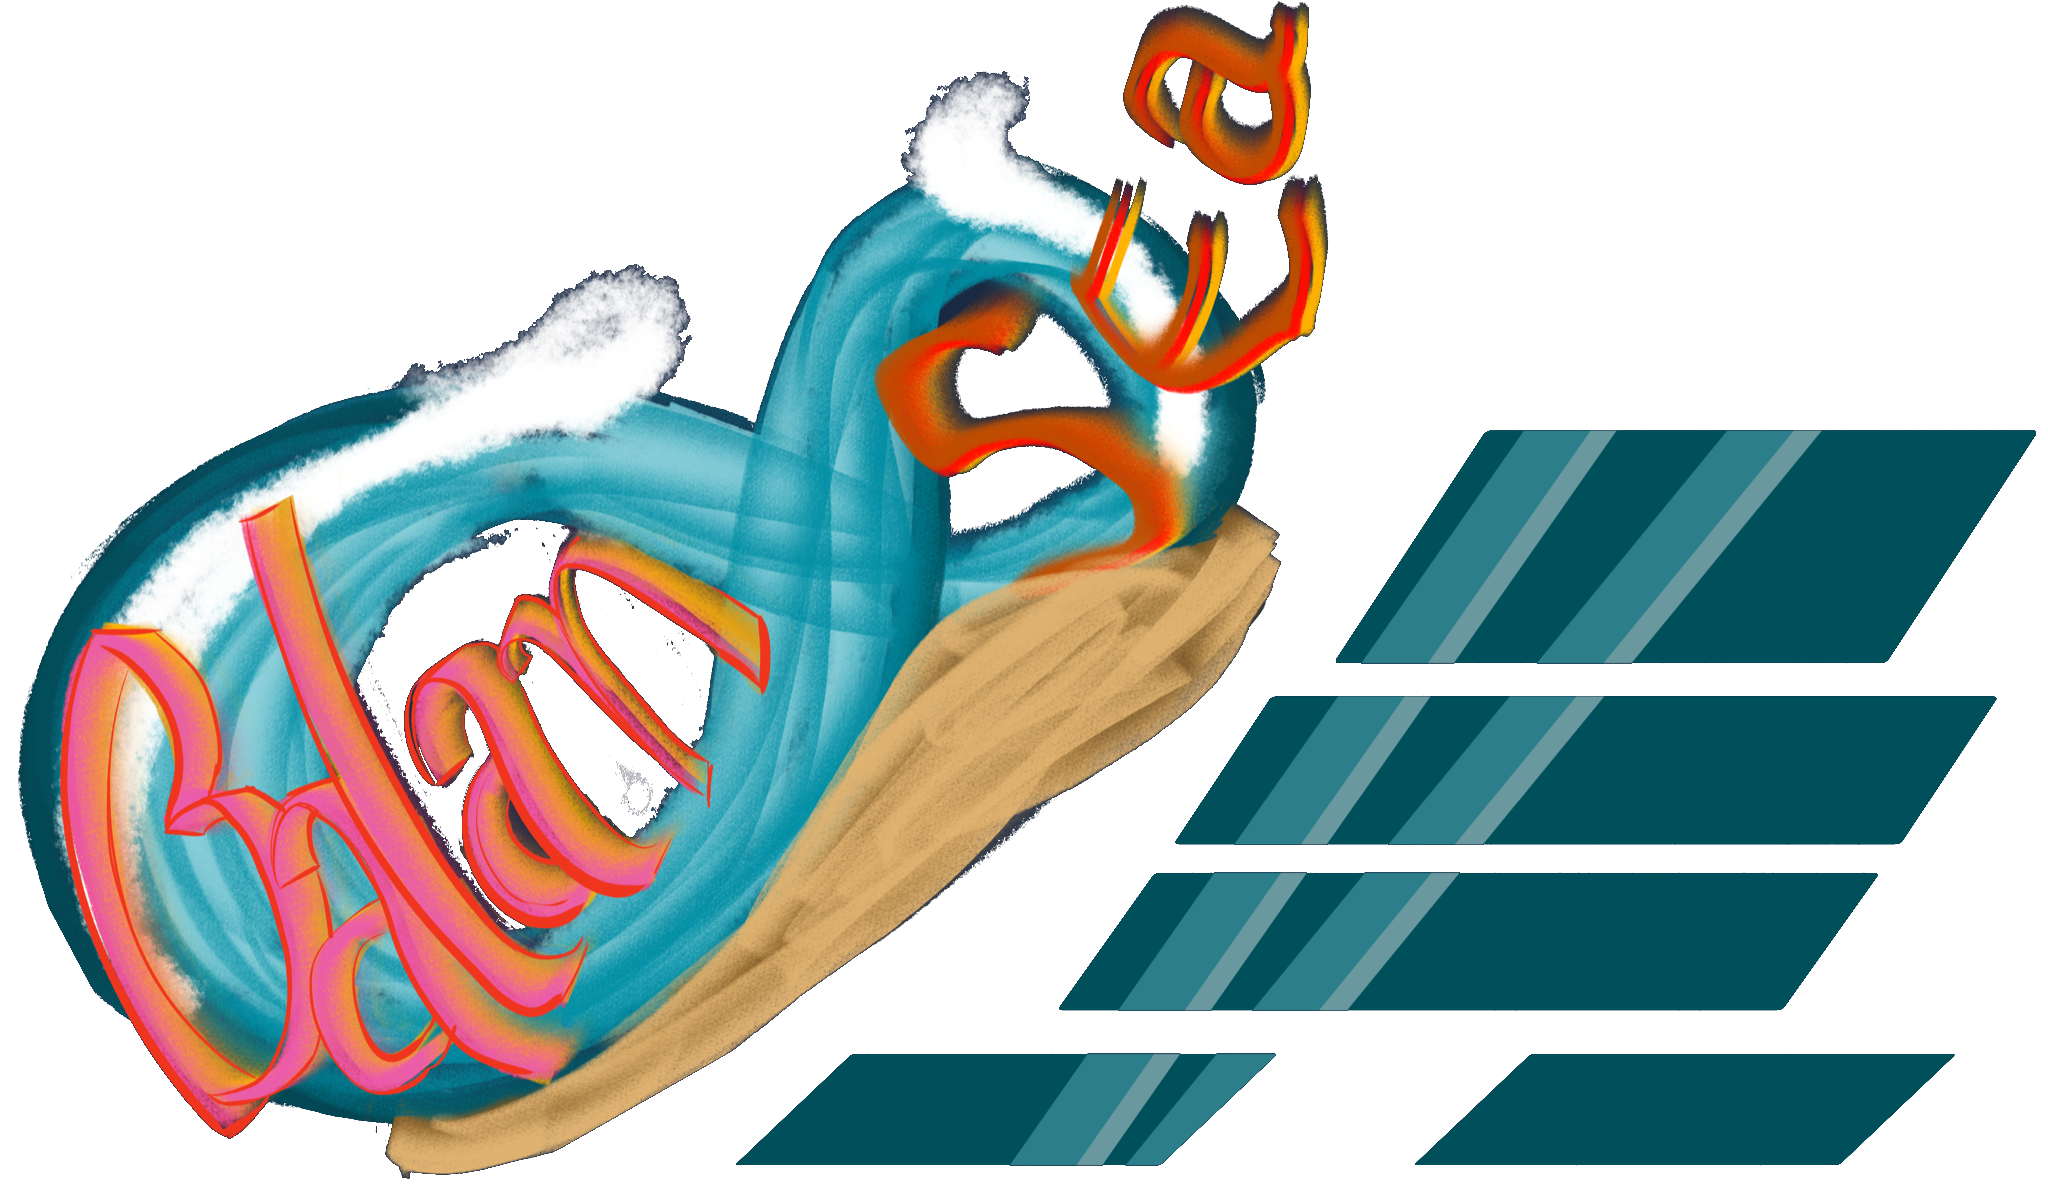
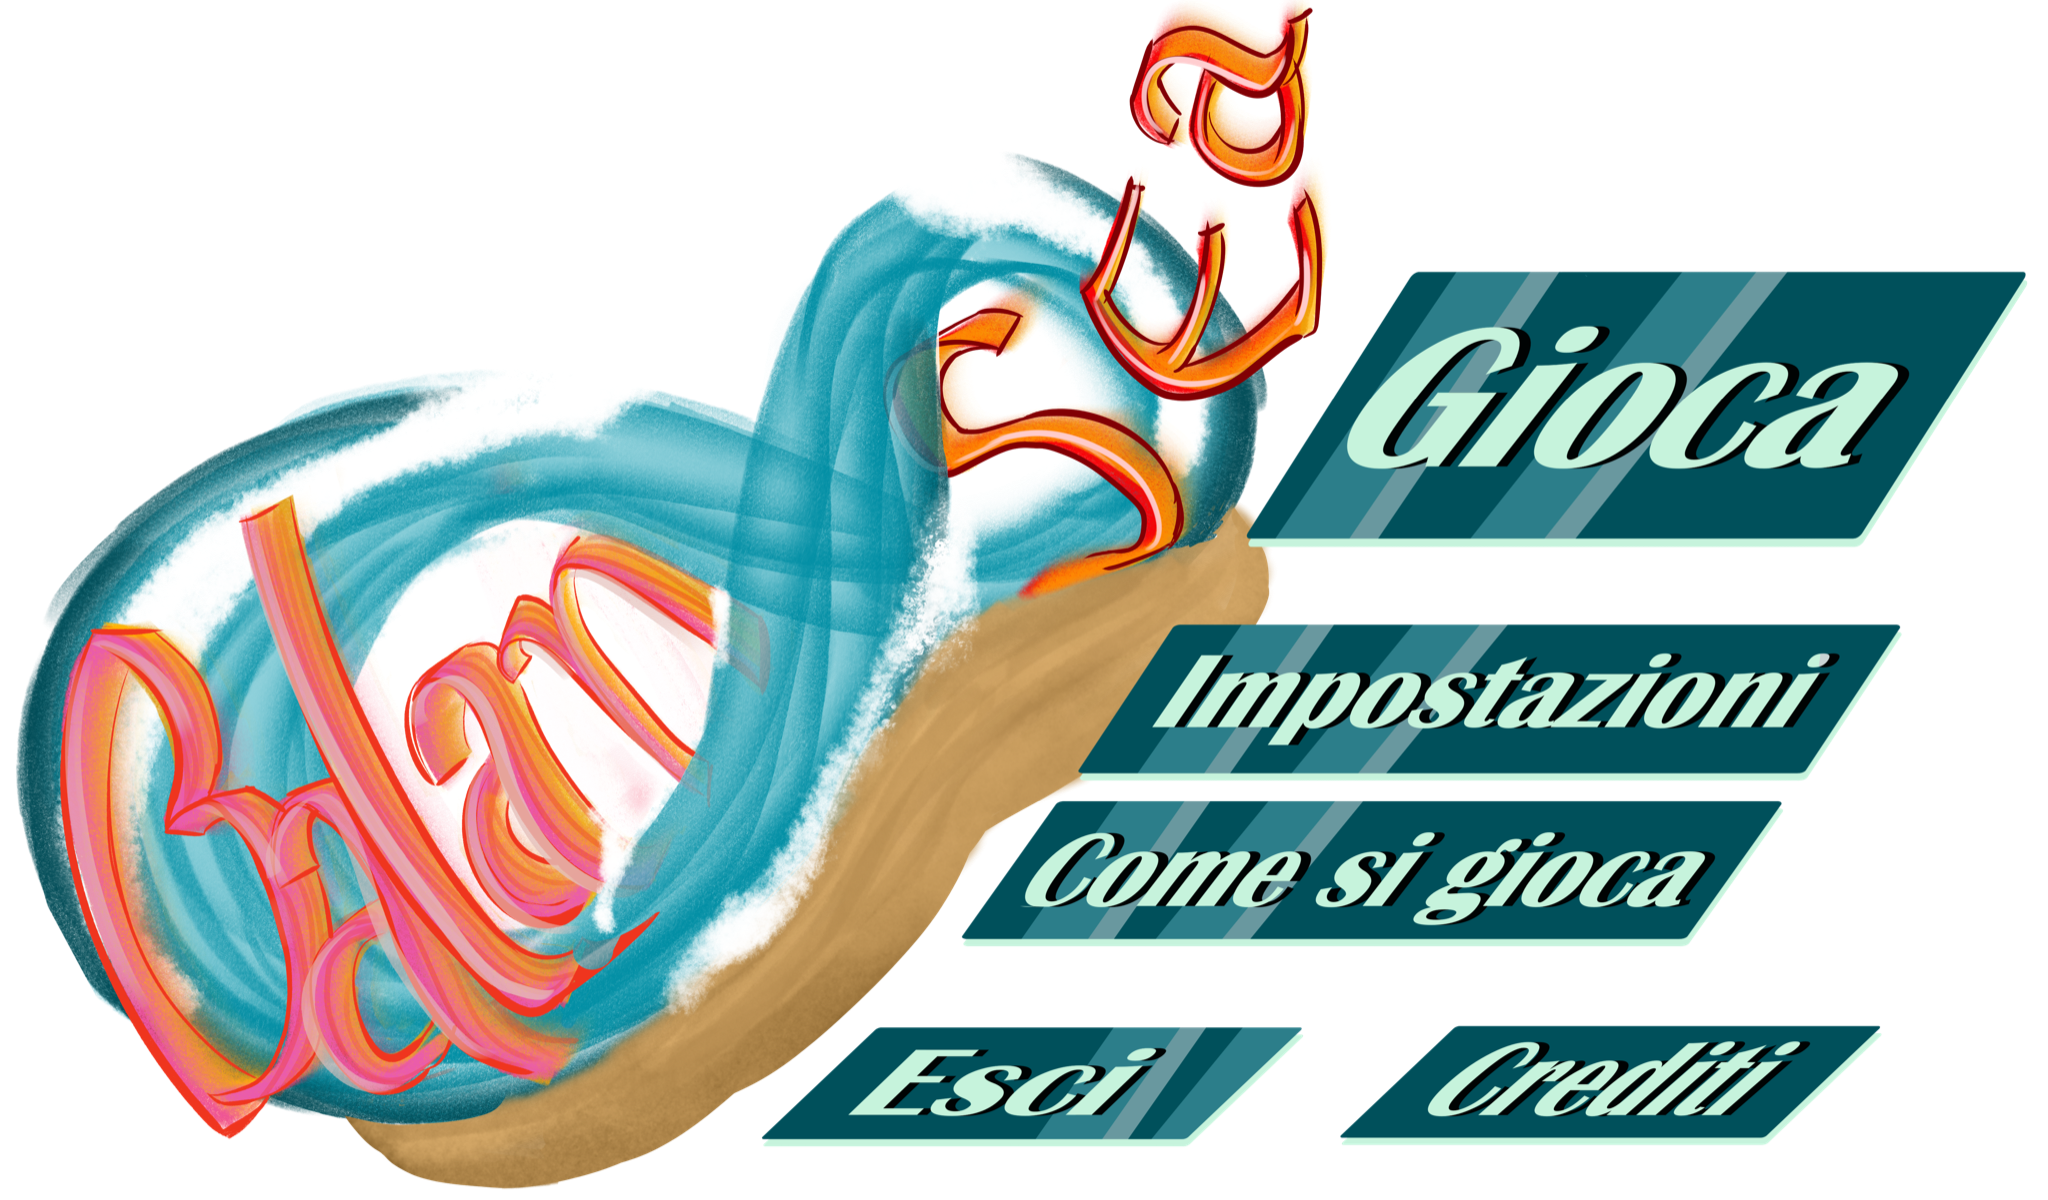
Use the painted menu text and realign its hotspots

diff --git a/docs/superpowers/specs/2026-11-07-menu-art-design.md b/docs/superpowers/specs/2026-11-07-menu-art-design.md
@@ -5,7 +5,7 @@
 The title screen currently draws the `assets/ui/logo.png` wordmark plus five
 `SeaStyle` text buttons built in code. The artist delivered a finished menu
 painting (`video/MENU.png`, 5699×3341): the reef illustration on the left and
-five **painted** buttons on the right — INIZIA, COME SI GIOCA, IMPOSTAZIONI,
+five **painted** buttons on the right — GIOCA, IMPOSTAZIONI, COME SI GIOCA,
 ESCI, CREDITI. The title screen should become that painting, with the painted
 buttons acting as the real buttons, so the shipped menu matches the art.
 
@@ -61,7 +61,7 @@ Why: the jam build is judged on its first screen; two competing button styles
 - **Hotspots.** Invisible `Button`s (no theme, no text) with a pointer cursor.
   Hover and keyboard focus brighten the painted shape with an additive re-draw
   of that region of the art, so only the pill lights up; pressed deepens it.
-  Focus order: INIZIA → COME SI GIOCA → IMPOSTAZIONI → CREDITI → ESCI, INIZIA
+  Focus order: GIOCA → IMPOSTAZIONI → COME SI GIOCA → ESCI → CREDITI, GIOCA
   focused when the menu opens.
 - **ESCI is never hidden.** It stays on screen and in focus order on every
   platform, including the web build (the user's call). Consequence: in a
@@ -81,14 +81,3 @@ Why: the jam build is judged on its first screen; two competing button styles
 - Exact hotspot fractions: measured from the painting during the plan; the
   builder only needs them to line up (verify with a screenshot).
 
-## Update: code-drawn button labels
-
-The painted lettering in `video/MENU.png` was a placeholder; the text-free
-master is now `video/ciccio.png`, shipped as `assets/ui/menu.png`.
-`MainMenuScreen` therefore draws a `Label` on each hotspot (`LABELS`: INIZIA, COME SI GIOCA, IMPOSTAZIONI,
-CREDITI, ESCI), sized from the hotspot so it follows the art at every window
-size. The labels use the shared off-white caption colour and sit above the
-additive hover/focus glow. The old anti-goal "labels appearing twice" now only
-means the shipped painting must stay text-free. The menu keeps the shared
-translucent `SeaStyle.OVERLAY_COLOR` backdrop, so the paused reef shows through
-the painting's transparent background and the letterbox bars.
